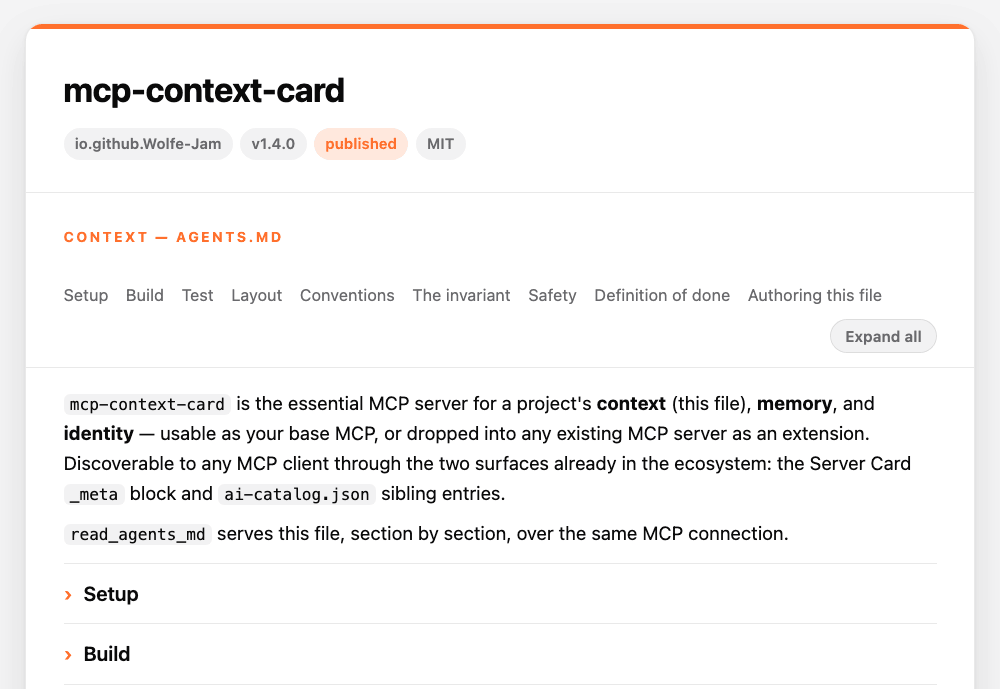
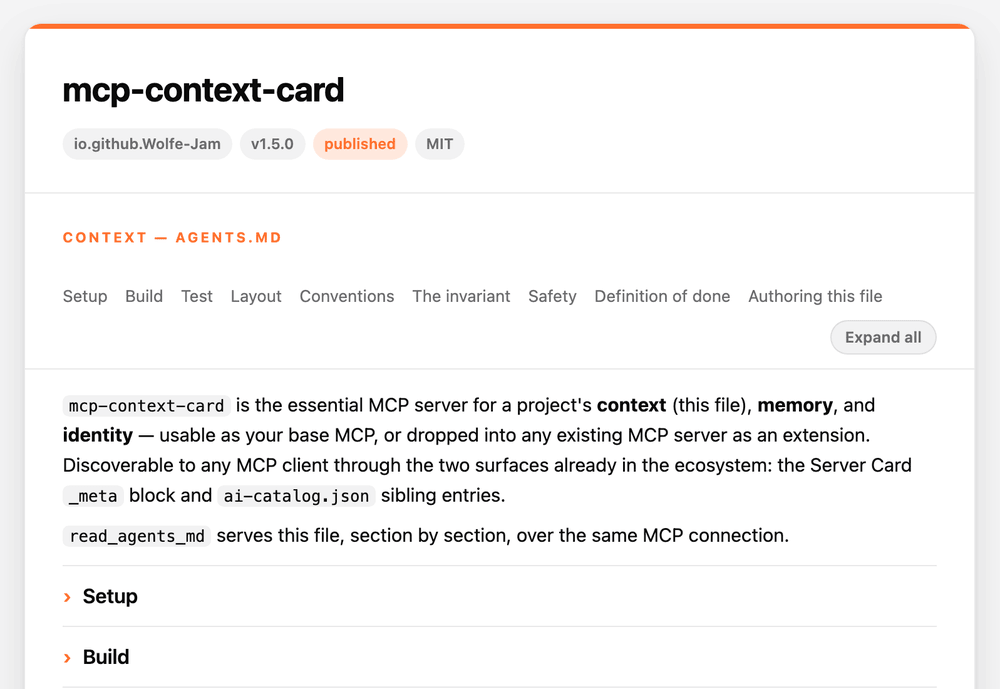
release: mcp-context-card v1.5.0 (#68)
MCP Server Cards (SEP-2127, Final) + AI Catalog 1.0 + HTTP local by default.
Breaking for exposed deploys: set HOST=0.0.0.0 (examples/Dockerfile does).

- version 1.5.0 in every stamp; CHANGELOG; card/catalog regenerated; the
  three version-pill PNGs re-shot at the existing 1000px framing
- examples/Dockerfile: HOST=0.0.0.0 (a container must listen beyond its own
  loopback to be reached through -p)
- examples/README + docs/MECHANISMS: real 1.5.0 card output, /mcp/server-card
- the HTTP startup line prints once the socket is listening (a waiting test
  or supervisor could connect early)
- README: 200 tests, npm run wjttc, the checker, layout rows; no auth or rate
  limiting built in. TRANSPORT.md: the rate-limit SHOULD

diff --git a/src/bin.ts b/src/bin.ts
@@ -164,13 +164,16 @@ if (entryPath && import.meta.url === pathToFileURL(entryPath).href) {
     const { isLoopbackBind } = await import("./transport/guard.js");
     const host = bindHost();
     const local = isLoopbackBind(host);
-    serveHttp({ fetch: httpApp(root, { exposure: local ? "local" : "exposed" }).fetch, port, hostname: host });
-    // stderr, not stdout — stdout is the MCP wire in stdio mode.
-    console.error(
-      `${NAME} · http · ${host.includes(":") ? `[${host}]` : host}:${port}  (POST /mcp · GET /card · GET /.well-known/*)` +
-        (local
-          ? "  · local only (HOST=0.0.0.0 to expose)"
-          : "  · EXPOSED beyond this machine, no authentication: put it behind your own"),
+    // The startup line prints once the socket is listening, so anything waiting
+    // for it (a test, a supervisor) can connect straight away.
+    serveHttp({ fetch: httpApp(root, { exposure: local ? "local" : "exposed" }).fetch, port, hostname: host }, () =>
+      // stderr, not stdout — stdout is the MCP wire in stdio mode.
+      console.error(
+        `${NAME} · http · ${host.includes(":") ? `[${host}]` : host}:${port}  (POST /mcp · GET /card · GET /.well-known/*)` +
+          (local
+            ? "  · local only (HOST=0.0.0.0 to expose)"
+            : "  · EXPOSED beyond this machine, no authentication: put it behind your own"),
+      ),
     );
   } else {
     // stderr so it never touches the JSON-RPC wire on stdout; a bare run at a

diff --git a/demo.ts b/demo.ts
@@ -30,7 +30,7 @@ async function connect(): Promise<Client> {
     command: process.execPath,
     args: ["--import", "tsx", join(here, "src/server.ts")],
   });
-  const client = new Client({ name: "demo-host", version: "1.4.0" }, { capabilities: {} });
+  const client = new Client({ name: "demo-host", version: "1.5.0" }, { capabilities: {} });
   await client.connect(transport);
   return client;
 }
@@ -103,7 +103,7 @@ console.log(`\n${line}\n4. DISCOVERY — list_context_sources(), then the same s
   await new Promise((r) => setTimeout(r, 50));
   const { port } = srv.address() as { port: number };
 
-  const httpClient = new Client({ name: "demo-host", version: "1.4.0" }, { capabilities: {} });
+  const httpClient = new Client({ name: "demo-host", version: "1.5.0" }, { capabilities: {} });
   await httpClient.connect(new StreamableHTTPClientTransport(new URL(`http://127.0.0.1:${port}/mcp`)));
   const tools = (await httpClient.listTools()).tools.map((t) => t.name);
   console.log(`· POST http://127.0.0.1:${port}/mcp → ${tools.length} tools: ${tools.join(", ")}`);

diff --git a/docs/card-dark.html b/docs/card-dark.html
@@ -100,7 +100,7 @@ details.ctx-section>.md{padding:0 0 16px}
 <main class="card">
   <div class="top">
     <h1>mcp-context-card</h1>
-    <div class="pills"><span class="pill">io.github.Wolfe-Jam</span><span class="pill">v1.4.0</span><span class="pill accent">published</span><span class="pill">MIT</span></div>
+    <div class="pills"><span class="pill">io.github.Wolfe-Jam</span><span class="pill">v1.5.0</span><span class="pill accent">published</span><span class="pill">MIT</span></div>
   </div>
   <section>
     <p class="label">Context — AGENTS.md</p>

diff --git a/docs/card-light.html b/docs/card-light.html
@@ -100,7 +100,7 @@ details.ctx-section>.md{padding:0 0 16px}
 <main class="card">
   <div class="top">
     <h1>mcp-context-card</h1>
-    <div class="pills"><span class="pill">io.github.Wolfe-Jam</span><span class="pill">v1.4.0</span><span class="pill accent">published</span><span class="pill">MIT</span></div>
+    <div class="pills"><span class="pill">io.github.Wolfe-Jam</span><span class="pill">v1.5.0</span><span class="pill accent">published</span><span class="pill">MIT</span></div>
   </div>
   <section>
     <p class="label">Context — AGENTS.md</p>

diff --git a/docs/card.html b/docs/card.html
@@ -100,7 +100,7 @@ details.ctx-section>.md{padding:0 0 16px}
 <main class="card">
   <div class="top">
     <h1>mcp-context-card</h1>
-    <div class="pills"><span class="pill">io.github.Wolfe-Jam</span><span class="pill">v1.4.0</span><span class="pill accent">published</span><span class="pill">MIT</span></div>
+    <div class="pills"><span class="pill">io.github.Wolfe-Jam</span><span class="pill">v1.5.0</span><span class="pill accent">published</span><span class="pill">MIT</span></div>
   </div>
   <section>
     <p class="label">Context — AGENTS.md</p>

diff --git a/docs/index.html b/docs/index.html
@@ -100,7 +100,7 @@ details.ctx-section>.md{padding:0 0 16px}
 <main class="card">
   <div class="top">
     <h1>mcp-context-card</h1>
-    <div class="pills"><span class="pill">io.github.Wolfe-Jam</span><span class="pill">v1.4.0</span><span class="pill accent">published</span><span class="pill">MIT</span></div>
+    <div class="pills"><span class="pill">io.github.Wolfe-Jam</span><span class="pill">v1.5.0</span><span class="pill accent">published</span><span class="pill">MIT</span></div>
   </div>
   <section>
     <p class="label">Context — AGENTS.md</p>

diff --git a/src/constants.ts b/src/constants.ts
@@ -1,7 +1,7 @@
 /** Server identity constants, in their own module so any file can import
  *  them without pulling in the whole server. */
 export const NAME = "mcp-context-card";
-export const VERSION = "1.4.0";
+export const VERSION = "1.5.0";
 export const SERVER_CARD_URI = "mcp-context-card://server-card";
 
 /** The server's registry identity: reverse-DNS, the same as server.json `name`.

diff --git a/CHANGELOG.md b/CHANGELOG.md
@@ -2,6 +2,51 @@
 
 All notable changes to this project. Adheres to [Semantic Versioning](https://semver.org).
 
+## 1.5.0
+
+MCP Server Cards (SEP-2127, Final) and AI Catalog 1.0, and HTTP that is local by default.
+
+**Breaking for exposed deploys:** HTTP mode now binds `127.0.0.1`. A container or
+hosted deploy must set `HOST=0.0.0.0` (`examples/Dockerfile` does). Local use is
+unchanged.
+
+- **Server Card (SEP-2127, Final).** Served at `GET /mcp/server-card`
+  (`<streamable-http-url>/server-card`). The 1.x `/.well-known/mcp/server-card`
+  still answers with the same card. The card validates against the official v1
+  schema: `$schema`, a reverse-DNS `name` (`io.github.Wolfe-Jam/mcp-context-card`,
+  as in `server.json`), `title`, `description`, `websiteUrl`, `repository`, and a
+  `streamable-http` remote when served over HTTP. `serverInfo` reports the same
+  name, title and version.
+- **Discovery hosting.** The card, catalog and `.well-known/fafa` carry the
+  spec's CORS (`Access-Control-Allow-Origin: *`, GET, `Content-Type` and
+  `If-None-Match` allowed, `ETag` exposed), `Cache-Control: public,
+  max-age=3600`, and an `ETag` answered with `304 Not Modified`.
+- **AI Catalog 1.0.** The Server Card is the first entry. Entries use `type`,
+  custom data sits in `extensions`, and identifiers are
+  `urn:air:{domain}:{namespace}:{name}` with the domain taken from the project's
+  own `.fafa` (none is ever invented). `/AGENTS.md` is served, so every catalog
+  link resolves with its declared type.
+- **Memory stays private over HTTP.** `project.fafm` is session data, so it is
+  not served or listed in the AI Catalog, and an exposed `/card` shows only how
+  many facts there are, unless `MCP_CONTEXT_CARD_PUBLISH_MEMORY=1`. Local
+  surfaces (the CLI card, the MCP App, the tools, a local `/card`) are unchanged.
+- **Local by default (MCP transports spec).** A foreign browser `Origin` gets
+  403 with a JSON-RPC error. A local server serves loopback `Host` names only,
+  so a DNS name rebound to this machine is refused. The server binds
+  `127.0.0.1` unless `HOST` is set. `MCP_CONTEXT_CARD_ALLOWED_HOSTS` and
+  `MCP_CONTEXT_CARD_ALLOWED_ORIGINS` admit a reverse proxy or a web app. The
+  startup line says whether the server is local or exposed, and now prints
+  once the socket is listening.
+- **WJTTC suite (`npm run wjttc`).** Seven tiers: Protocol, Server Card,
+  Hosting, AI Catalog, Security, stdio/HTTP Parity, Ship. Tiers 2 to 4 and the
+  transport checks run `src/conformance/discovery.ts`, a self-contained checker
+  for any server URL that reports each requirement as MUST or SHOULD, worded
+  as the specs word it.
+- Dependencies: `@modelcontextprotocol/sdk` 1.32.1 (GHSA-6qxp-vccf-f47h) and
+  `hono` 4.13.13. `npm audit` reports 0 vulnerabilities.
+
+No tool change. 200 tests, all green.
+
 ## 1.4.0
 
 The card reads the `.fafa` that `faf card init` writes, and shows the agent's ID.

diff --git a/README.md b/README.md
@@ -170,7 +170,8 @@ wins. Identity is optional. Over HTTP instead:
 HTTP mode is local by default, as the MCP transports spec asks: it binds
 `127.0.0.1`, refuses foreign browser origins with 403, and refuses DNS names
 rebound to this machine. `HOST=0.0.0.0` exposes it (a container or hosted
-deploy). There is no authentication, so put an exposed server behind your own.
+deploy). There is no authentication or rate limiting, so put an exposed server
+behind your own.
 Memory is session data: an exposed server shows only its count on `/card`, and
 never serves or lists `project.fafm`, unless you set
 `MCP_CONTEXT_CARD_PUBLISH_MEMORY=1`. Details:
@@ -245,11 +246,15 @@ over both transports:
 4. **Discovery** — `list_context_sources()`, then the same server over stateless
    HTTP with its `.well-known` routes and `GET /card`.
 
-140 tests on Linux, macOS, and Windows, coverage‑gated in CI. Two spawn a real
+200 tests on Linux, macOS, and Windows, coverage‑gated in CI.
+`npm run wjttc` runs the WJTTC certification suite (seven tiers, from protocol
+and Server Card conformance to stdio/HTTP parity and the shipped package). Two spawn a real
 child process and check a remembered fact survives the restart — one against
 an existing `project.fafm`, one starting from a project that has never had
 one; another checks the stdio and HTTP tool surfaces match, and another checks
 every tool's title and behaviour hints against what it actually does.
+`src/conformance/discovery.ts` checks any server's Server Card, AI Catalog and
+transport security against the specs, one MUST or SHOULD at a time.
 
 ## Layout
 
@@ -262,8 +267,11 @@ every tool's title and behaviour hints against what it actually does.
 | `src/render-card.ts` | the card — identity + `AGENTS.md` + memory + discovery, as one HTML page |
 | `src/memory.ts` | file‑backed `remember` / `recall` / `forget` |
 | `src/identity.ts` | `whoami` (`.fafa` → `package.json` fallback) + the `_meta` block |
-| `src/catalog-gen.ts` | writes `ai-catalog.json` from the same three sources |
+| `src/server-card.ts` | the MCP Server Card (SEP-2127, schema v1) |
+| `src/catalog-gen.ts` | writes `ai-catalog.json`: the Server Card + its sibling entries |
 | `src/transport/http.ts` | the stateless Streamable HTTP app (Hono) |
+| `src/transport/guard.ts` | Origin and Host checks (DNS-rebinding protection) |
+| `src/conformance/discovery.ts` | a portable Server Card / AI Catalog / transport checker |
 | `src/bin.ts` | the entry point — `stdio` · `--http` · `card` · `--help` · `--version` |
 
 ## Related

diff --git a/examples/README.md b/examples/README.md
@@ -24,10 +24,16 @@ docker run -p 3000:3000 mcp-context-card
 The three discovery routes need no MCP handshake:
 
 ```console
-$ curl -s localhost:3000/.well-known/mcp/server-card
+$ curl -s localhost:3000/mcp/server-card
 {
-  "name": "mcp-context-card",
-  "version": "1.4.0",
+  "$schema": "https://static.modelcontextprotocol.io/schemas/v1/server-card.schema.json",
+  "name": "io.github.Wolfe-Jam/mcp-context-card",
+  "version": "1.5.0",
+  "title": "MCP Context Card",
+  "description": "MCP server for a project's context (AGENTS.md), memory, and identity — base or drop-in extension.",
+  "websiteUrl": "https://github.com/Wolfe-Jam/mcp-context-card",
+  "repository": { "url": "https://github.com/Wolfe-Jam/mcp-context-card", "source": "github" },
+  "remotes": [{ "type": "streamable-http", "url": "http://localhost:3000/mcp", "supportedProtocolVersions": ["2025-11-25", "2025-06-18", "…"] }],
   "_meta": {
     "io.github.Wolfe-Jam.mcp-context-card/context":  { "source": "AGENTS.md",          "mediaType": "text/markdown" },
     "io.github.Wolfe-Jam.mcp-context-card/memory":   { "source": "project.fafm",       "mediaType": "application/vnd.fafm+yaml", "iana": "…", "note": "no de-facto standard for agent memory yet — this is one instantiation" },
@@ -36,8 +42,8 @@ $ curl -s localhost:3000/.well-known/mcp/server-card
 }
 
 $ curl -s localhost:3000/.well-known/ai-catalog.json | jq '.entries[].type'
+"application/mcp-server-card+json"
 "text/markdown"
-"application/vnd.fafm+yaml"
 "application/vnd.fafa+yaml"
 ```
 

diff --git a/docs/MECHANISMS.md b/docs/MECHANISMS.md
@@ -21,15 +21,22 @@ top‑level `_meta`. So the card is served the two ways a client can consume it:
 
 ```
 resources/read  mcp-context-card://server-card       # in band
-GET /.well-known/mcp/server-card                 # out of band (http transport)
+GET /mcp/server-card                             # out of band (http transport; the 1.x
+                                                 # /.well-known/mcp/server-card still answers)
 ```
 
-Both return:
+Both return the card below (over HTTP it also carries `remotes`, the
+Streamable HTTP endpoint at `<origin>/mcp` and its protocol versions):
 
 ```jsonc
 {
-  "name": "mcp-context-card",
-  "version": "1.4.0",
+  "$schema": "https://static.modelcontextprotocol.io/schemas/v1/server-card.schema.json",
+  "name": "io.github.Wolfe-Jam/mcp-context-card",
+  "version": "1.5.0",
+  "title": "MCP Context Card",
+  "description": "MCP server for a project's context (AGENTS.md), memory, and identity — base or drop-in extension.",
+  "websiteUrl": "https://github.com/Wolfe-Jam/mcp-context-card",
+  "repository": { "url": "https://github.com/Wolfe-Jam/mcp-context-card", "source": "github" },
   "_meta": {
     "io.github.Wolfe-Jam.mcp-context-card/context": {
       "source": "AGENTS.md",

diff --git a/docs/TRANSPORT.md b/docs/TRANSPORT.md
@@ -90,6 +90,7 @@ of a server, and this one does them as follows:
 | MUST validate `Origin`; refuse an invalid one with 403 | `originGuard` on every route except the public discovery documents: a request with no `Origin` (a non-browser client), from a page on this machine, from an allowlisted origin, or from the server's own origin passes; any other gets 403 with a JSON-RPC error (`id: null`) |
 | SHOULD bind only to localhost when running locally | binds `127.0.0.1` unless `HOST` says otherwise; the startup line says which |
 | SHOULD authenticate every connection | not built in: keep it local, or put it behind your own auth |
+| SHOULD rate-limit the Server Card endpoint (Server Card spec) | not built in: your proxy or host's limiter |
 
 A local server also checks the `Host` header (`hostGuard`, the SDK's Express
 `hostHeaderValidation` semantics for Hono): only loopback names are served, so a
